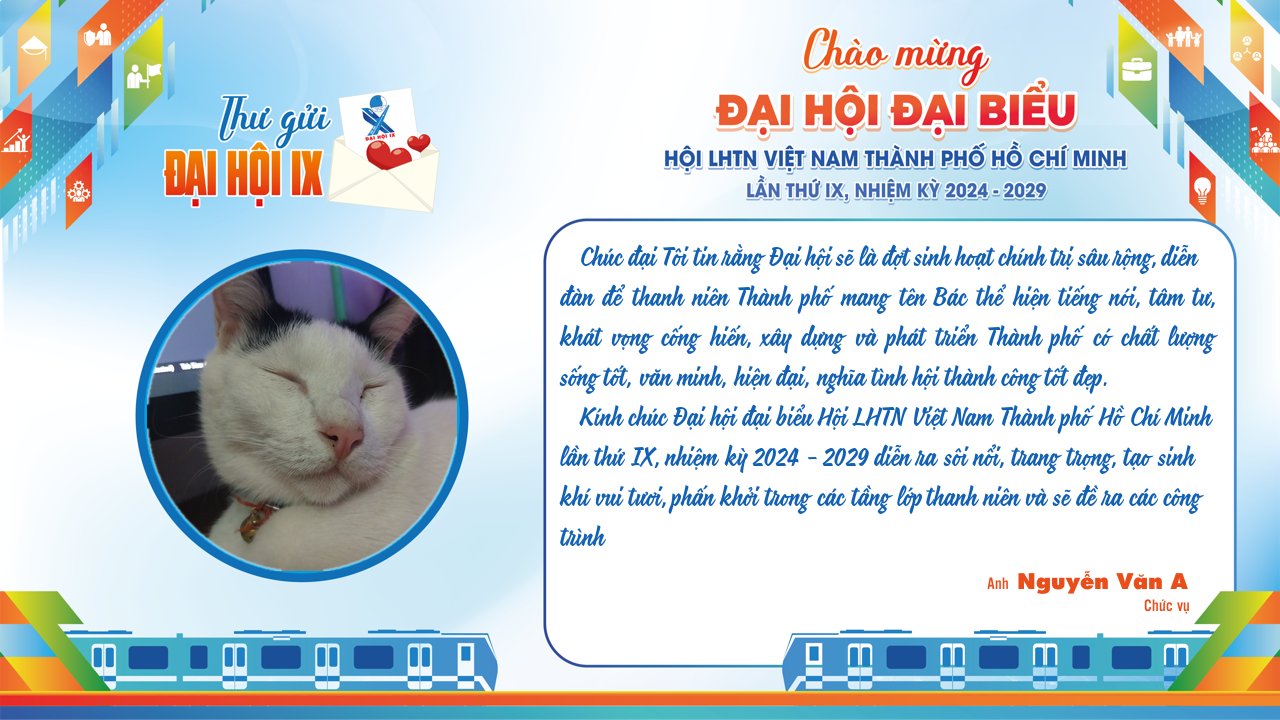
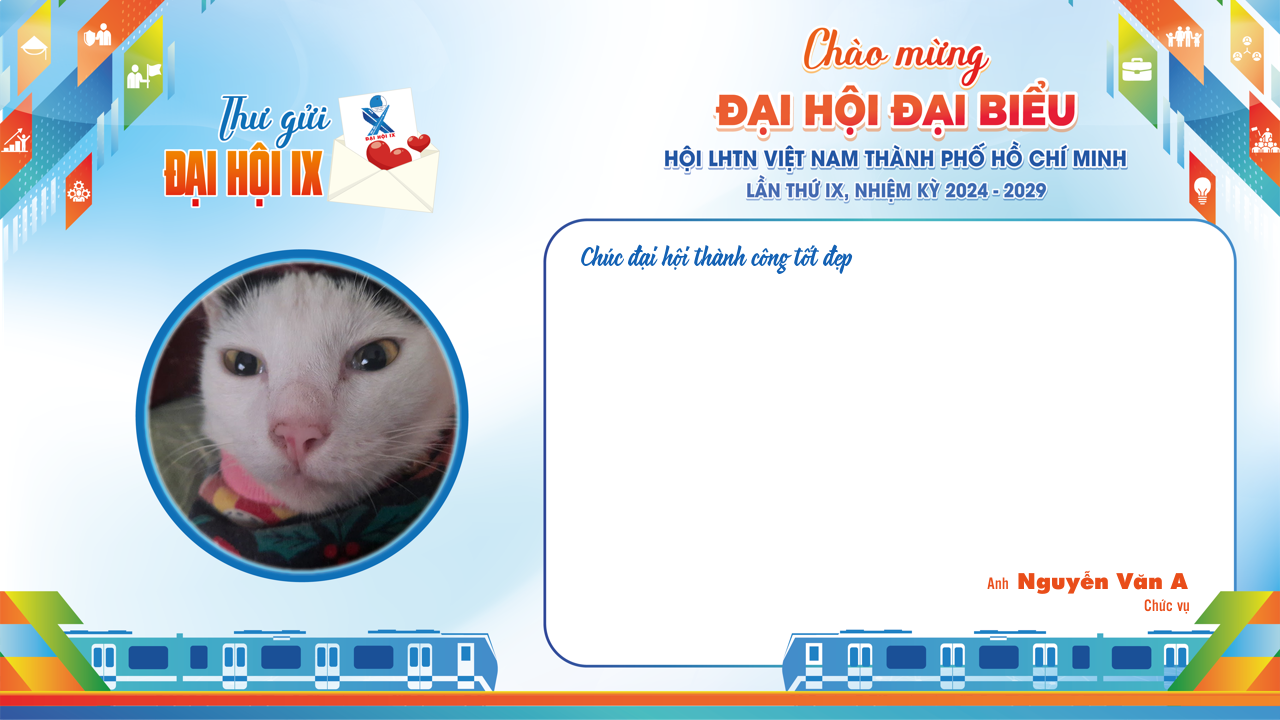
update

diff --git a/run.py b/run.py
@@ -7,17 +7,28 @@ app = Flask(__name__)
 CORS(app)
 
 # Function for cropping the avatar image to a circle
-def crop_to_circle(input_image, diameter=310):
+def crop_to_circle(input_image, diameter=320):
+    # Open the input image and convert it to RGBA
     img = Image.open(input_image).convert("RGBA")
+    
+    # Create a new image with transparent background for the circle
     circle_image = Image.new("RGBA", (diameter, diameter), (255, 255, 255, 0))
+    
+    # Create a mask for the circular area
     mask = Image.new("L", (diameter, diameter), 0)
     draw = ImageDraw.Draw(mask)
-    draw.ellipse((0, 0, diameter, diameter), fill=255)
-    mask = mask.filter(ImageFilter.GaussianBlur(1))
-    img = img.resize((diameter, diameter), Image.LANCZOS)
-    circle_image.paste(img, (0, 0), mask)
-    return circle_image
+    draw.ellipse((5, 5, diameter-5, diameter-5), fill=255)  # Slight padding for a smoother edge
 
+    # Apply a Gaussian blur for smoother edges
+    mask = mask.filter(ImageFilter.GaussianBlur(2))
+
+    # Resize the original image with high-quality resampling
+    img = img.resize((diameter, diameter), Image.LANCZOS)
+    
+    # Paste the resized image onto the circular image using the mask
+    circle_image.paste(img, (0, 0), mask)
+    
+    return circle_image
 @app.route('/api/endpoint', methods=['POST'])
 def process_image():
     if 'avatar' not in request.files or not all(key in request.form for key in ['ten', 'xungHo', 'chucVu', 'longText']):
@@ -128,7 +139,7 @@ def process_image():
         draw.text(position,chucVu,font=font, fill=text_color)
         #################################################################################################################
         avatarImg = Image.open(avatar_cropped_path)
-        img.paste(avatarImg, (147, 261), avatarImg)
+        img.paste(avatarImg, (142, 256), avatarImg)
         #test.save("./imgs/dpi.png", dpi=(300, 300))
         img.save(output_image_path)
         #print(f"Image saved as {output_path}")
